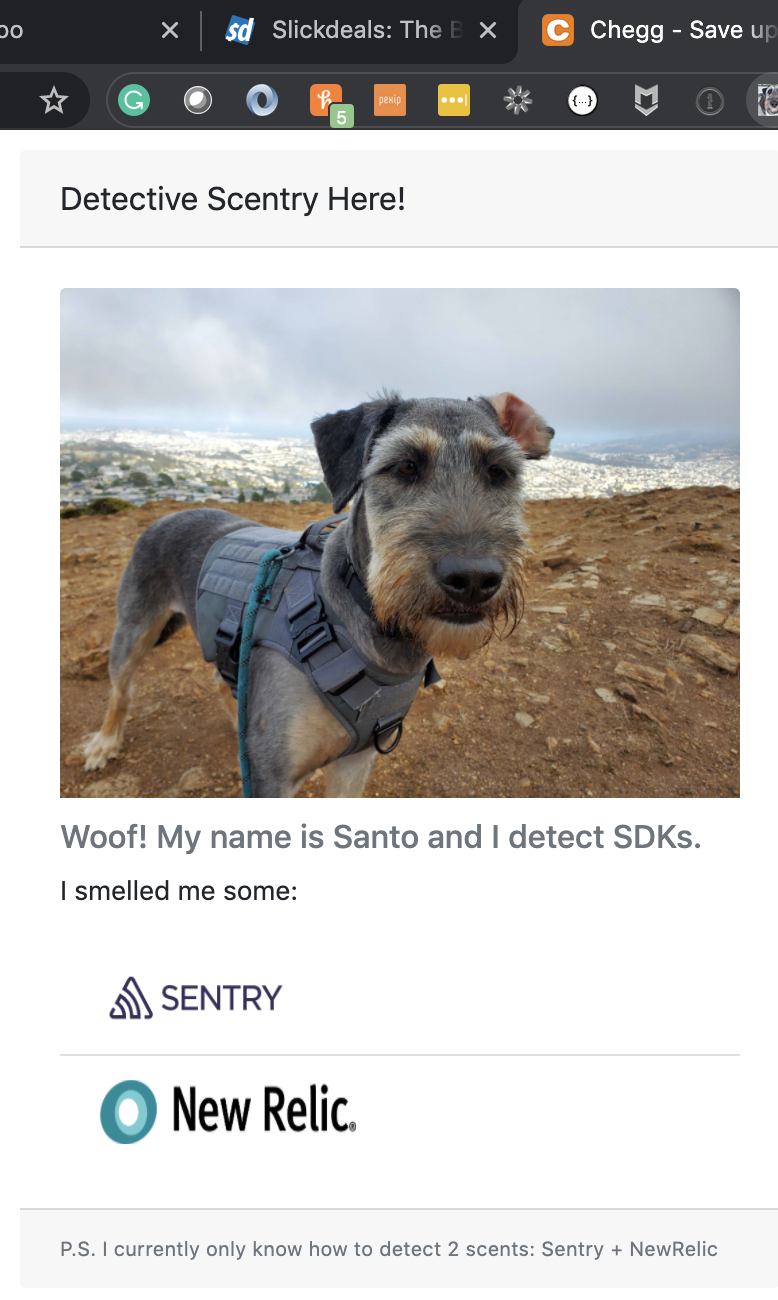
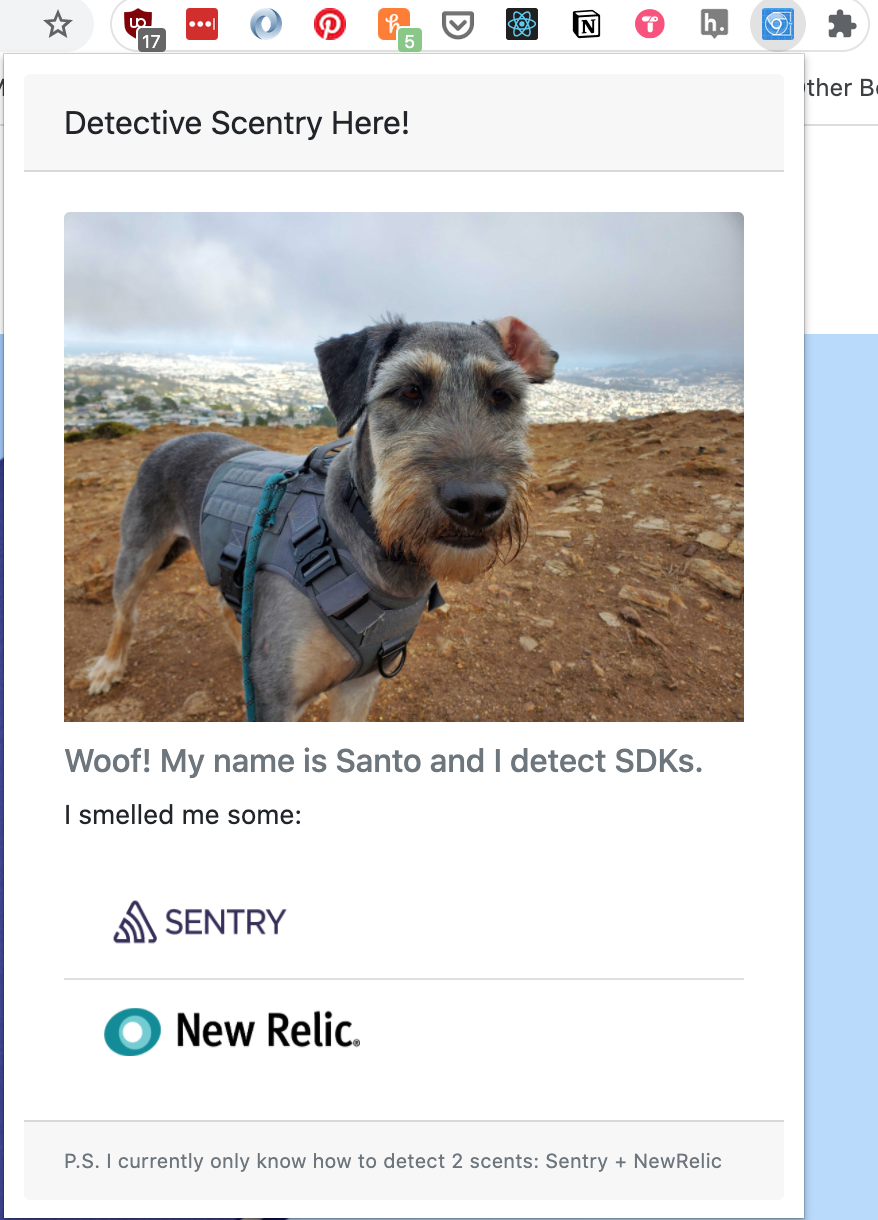
final final commit

diff --git a/src/styles/popup.css b/src/styles/popup.css
@@ -20,7 +20,7 @@ img {
 }
 
 .nr-logo {
-    height: 2rem;
+    height: 1.5rem;
     width: 8rem;
 }
 
